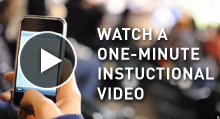
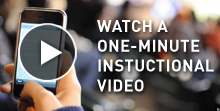
tood

diff --git a/app.css b/app.css
@@ -319,7 +319,7 @@ ul li {
   margin-top:6px;
   background:black;
   width:219px;
-  height:121px;
+  height:113px;
   padding:6px;
   background-color:rgba(0,0,0,0.3);
   -webkit-border-radius: 8px;
